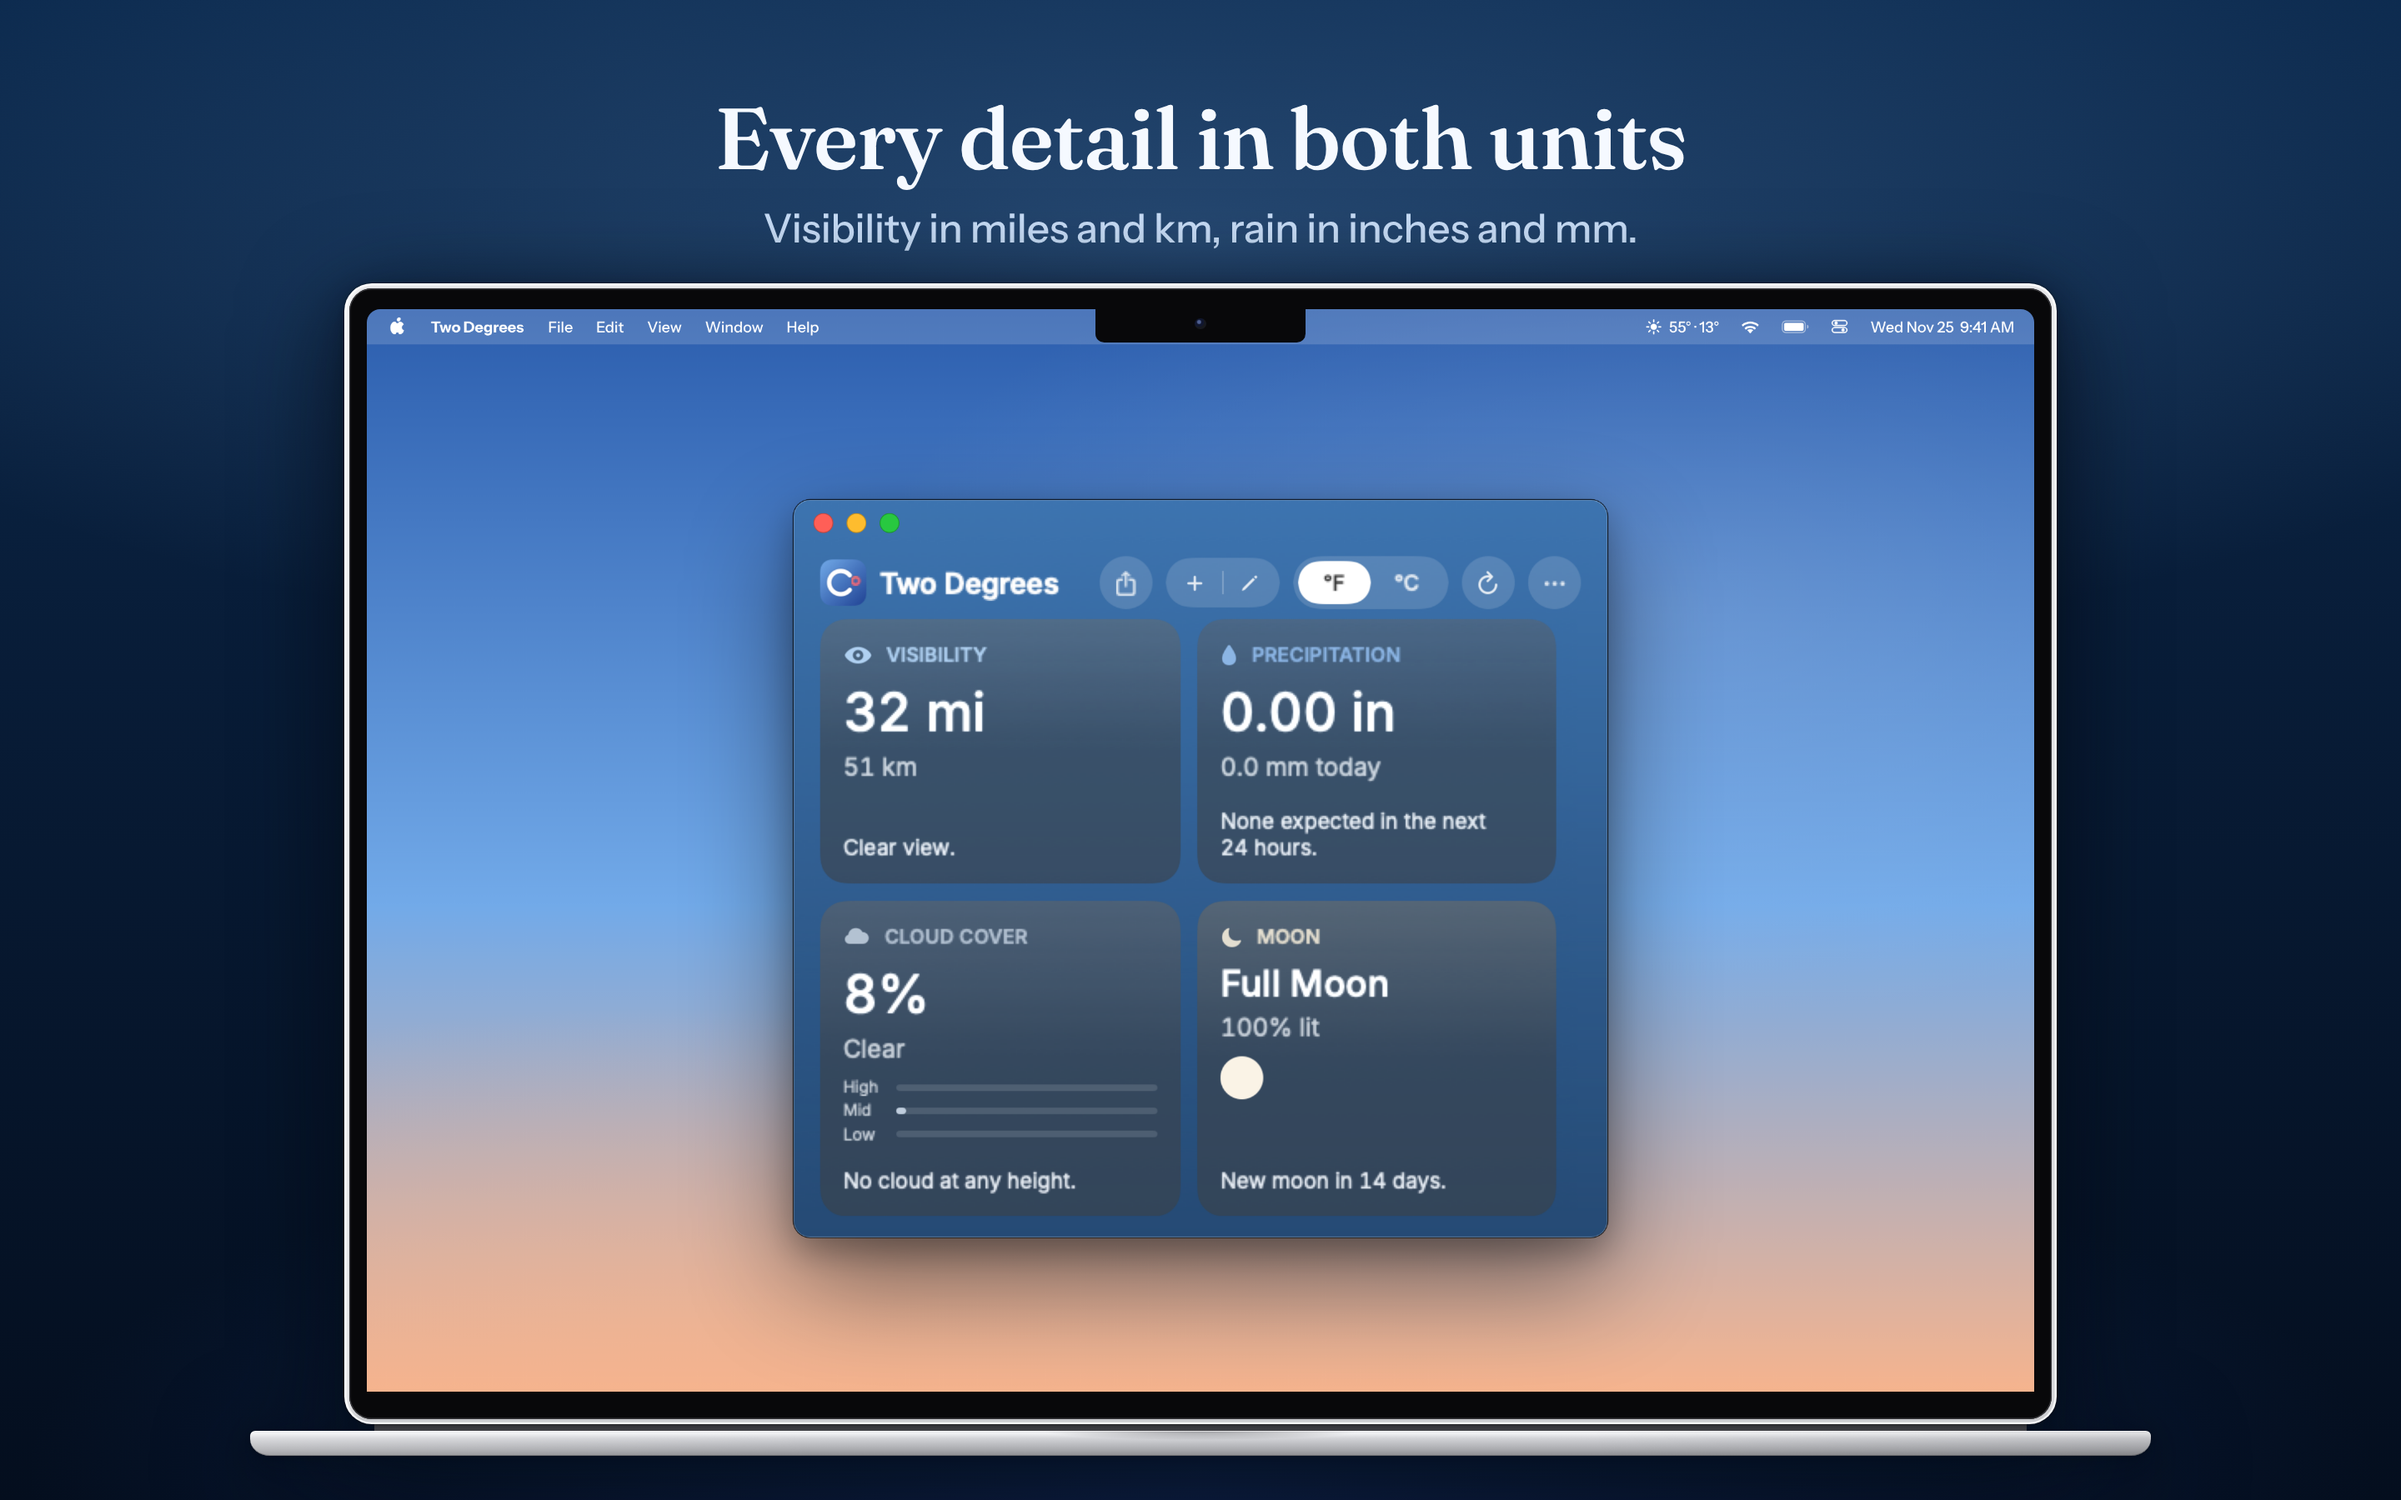
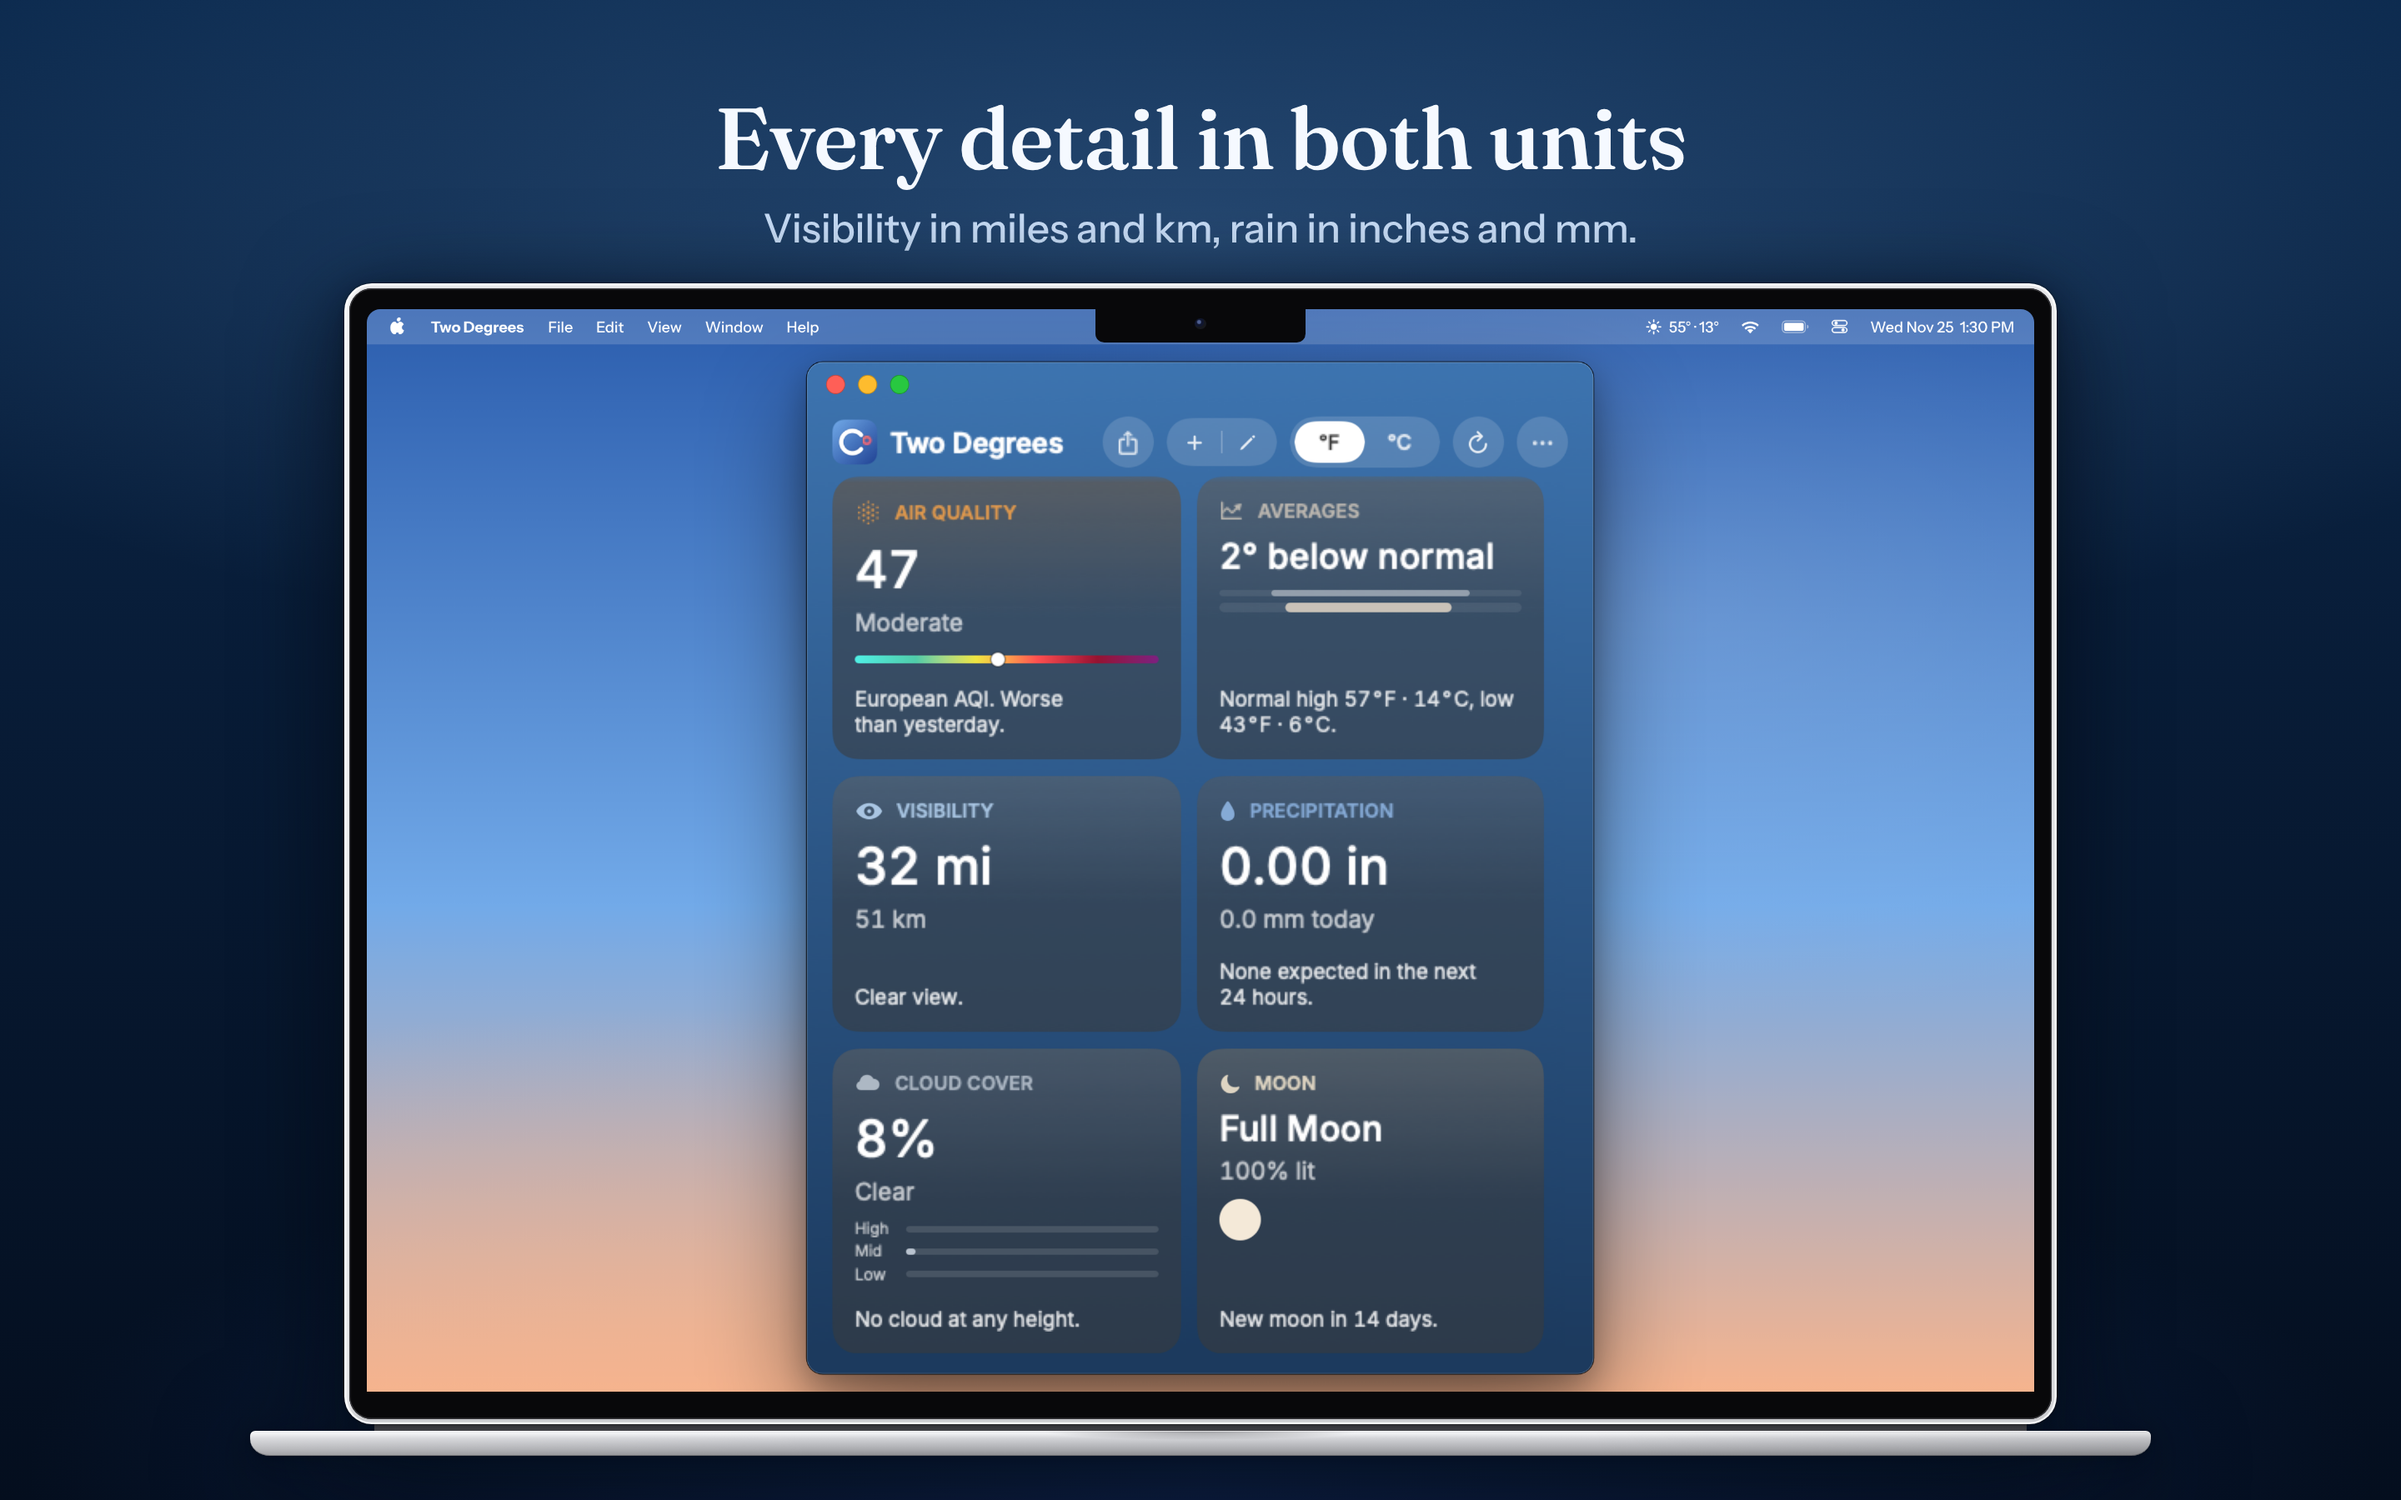
Mac App Store pictures: the city's clock, a second city in the menu bar, fuller tiles and widgets
- The menu bar clock is the hero city's local time from store-snapshot.json ('Wed Nov 25  1:30 PM',
  as its window's 'Japan · 1:30 PM'), passed to the template's desktop({ clock }) exception.
- mac-5's menu bar panel is the self-test's store-5-panel.png (Mumbai chosen), with the menu bar
  item's reading and the Dock tile (store-5-dock.png) following the chosen city, as the app does;
  it no longer repeats mac-1. Falls back to the hero when those captures are missing.
- mac-3's window shows all three rows of tiles (Air quality and Averages added; Averages gives the
  normal high and low in both units), at 1.45x, the largest that fits below the menu bar.
- mac-4's widgets are enlarged 1.45x in the same two columns, filling the screen.

iPhone and iPad pictures unchanged; design/app-store/store-frame.mjs unchanged.

Claude-Session: https://claude.ai/code/session_014XBPgVSosxkwyDptpY7qX5

Changed region(s): [[0.3125, 0.2489, 0.6875, 0.9333]]

diff --git a/scripts/make-store-screenshots.py b/scripts/make-store-screenshots.py
@@ -1604,19 +1604,21 @@ def mac_days(load):
 
 
 def mac_tiles(load):
-    """mac-3's window: the toolbar, then Visibility / Precipitation (edges 518..837) and Cloud cover / Moon
-    (858..1230, its rounded foot ending at 1232), 21 rows apart as in the app, and the window's own background
-    under them for 32 rows (16 pt, the app's side margin), so the last cards don't sit on the window's edge. Air quality and Averages
-    (its '7° above normal' carries no unit) are left out; the secondary units are raised to near-white."""
+    """mac-3's window: the toolbar, then all three rows of tiles as the app lays them out: Air quality / Averages
+    (edges 145..497; Averages gives the normal high and low in °F and °C), Visibility / Precipitation (518..837)
+    and Cloud cover / Moon (858..1230, its rounded foot ending at 1232), 21 rows apart as in the app, and the
+    window's own background under them for 32 rows (16 pt, the app's side margin), so the last cards don't sit on
+    the window's edge. The secondary units are raised to near-white."""
     a = arr(load("store-3-tiles.png"))
-    whiten(a, (54, 678, 162, 716), 0.94, 0.3)          # 29 km
+    whiten(a, (54, 678, 162, 716), 0.94, 0.3)          # 51 km
     whiten(a, (508, 678, 724, 721), 0.94, 0.3)         # 0.0 mm today
+    H = 144 + (497 - 145 + 1) + 21 + (837 - 518 + 1) + 21 + (1232 - 858 + 1) + 32
+    a = arr(pad_bottom(from_arr(a), max(0, H - a.shape[0])))
     B = sky_of(a, 12, a.shape[0])
-    H = 144 + (837 - 518 + 1) + 21 + (1232 - 858 + 1) + 32
     out = a[:H].copy()
     Bd = B[:H]
     fill(out, Bd, 136, H)
-    stack(out, Bd, 144, [(a, B, 518, 837), (a, B, 858, 1230)], 21, H)
+    stack(out, Bd, 144, [(a, B, 145, 497), (a, B, 518, 837), (a, B, 858, 1230)], 21, H)
     return from_arr(out)
 
 
@@ -1686,6 +1688,7 @@ MENU_H = 48
 # The Mac menu bar's reading and date come from the captures' store-snapshot.json (the hero city, as the app's
 # menu-bar extra shows it), so they match every screen. Set by main(); the defaults are only placeholders.
 MENU_READING = "93° · 34°"
+MENU_READING2 = MENU_READING   # mac-5: the second city's, chosen in the menu bar panel (the item follows it)
 MENU_CLOCK = "Tue Nov 24  9:41 AM"
 
 
@@ -1696,21 +1699,30 @@ def app_round(v):
 
 
 def read_menu_bar(raw):
-    """Sets MENU_READING and MENU_CLOCK from raw/store-snapshot.json: the first city's reading in °F and °C, and
-    the day the forecast was fetched (Swift dates count seconds from 2001-01-01 UTC)."""
-    global MENU_READING, MENU_CLOCK
+    """Sets MENU_READING, MENU_READING2 and MENU_CLOCK from raw/store-snapshot.json: the first and second cities'
+    readings in °F and °C, and the clock: the first city's local time as its window shows it ('Japan · 1:30 PM';
+    the app keeps each city's times as wall-clock time stored as GMT, in seconds from 2001-01-01), formatted like
+    the template's MAC_CLOCK, so the menu bar never contradicts the app."""
+    global MENU_READING, MENU_READING2, MENU_CLOCK
     import datetime
     import json
     path = os.path.join(raw, "store-snapshot.json")
     if not os.path.exists(path):
         return
     snap = json.load(open(path))
-    c = snap["cities"][0]
-    f = snap["forecasts"]["%.2f,%.2f" % (c["latitude"], c["longitude"])]
-    t = f["now"]["temperature"]
-    MENU_READING = f"{app_round(t * 9 / 5 + 32)}° · {app_round(t)}°"
-    day = datetime.datetime(2001, 1, 1) + datetime.timedelta(seconds=f["fetchedAt"])
-    MENU_CLOCK = f"{day:%a %b} {day.day}  9:41 AM"
+
+    def city(c):
+        return snap["forecasts"]["%.2f,%.2f" % (c["latitude"], c["longitude"])]
+
+    def reading(c):
+        t = city(c)["now"]["temperature"]
+        return f"{app_round(t * 9 / 5 + 32)}° · {app_round(t)}°"
+
+    cities = snap["cities"]
+    MENU_READING = reading(cities[0])
+    MENU_READING2 = reading(cities[1]) if len(cities) > 1 else MENU_READING
+    t = datetime.datetime(2001, 1, 1) + datetime.timedelta(seconds=city(cities[0])["now"]["time"])
+    MENU_CLOCK = f"{t:%a %b} {t.day}  {(t.hour - 1) % 12 + 1}:{t:%M %p}"
 
 
 def menu_bar(p, extra_open=False, s=1.0):
@@ -2004,12 +2016,19 @@ def mac_pieces(load, raw):
     """For the family template (scripts/store-frames.mjs lays them out on the master's desktop() and MacBook): the
     app's real windows and widgets at 2x, as they are, with no frame, shadow or desktop of ours. mac-1..3-window are
     the hero, the 10-day card and the tiles (the overlay scroller out); mac-4-* the widgets (Tokyo large, medium,
-    small; Mumbai small and large); mac-5-panel is the menu bar panel (the hero again) and mac-5-dock the app's live
-    Dock tile. mac.json carries the menu bar's reading and clock (from the captures' store-snapshot.json)."""
+    small; Mumbai small and large); mac-5-panel is the menu bar panel with the second city chosen (store-5-panel,
+    cropped and treated as mac-1's window) and mac-5-dock that city's live Dock tile (store-5-dock), as the menu bar
+    item and the Dock follow the chosen city; without those captures, the hero again. mac.json carries the menu
+    bar's readings and clock (from the captures' store-snapshot.json)."""
     w = mac_widgets(load, raw)
     out = {f"mac-{i + 1}-window": scroller_out(f(load)) for i, f in enumerate((mac_hero, mac_days, mac_tiles))}
+    try:
+        panel = scroller_out(mac_hero(lambda n: load("store-5-panel.png" if n == "store-1-top.png" else n)))
+        dock = load("store-5-dock.png")
+    except (FileNotFoundError, OSError, subprocess.CalledProcessError):
+        panel, dock = out["mac-1-window"], load("store-dock.png")
     out.update({"mac-4-large": w["L"], "mac-4-medium": w["M"], "mac-4-small": w["S"], "mac-4-small2": w["mS"],
-                "mac-4-large2": w["mL"], "mac-5-panel": out["mac-1-window"], "mac-5-dock": load("store-dock.png")})
+                "mac-4-large2": w["mL"], "mac-5-panel": panel, "mac-5-dock": dock})
     return out
 
 
@@ -2163,7 +2182,7 @@ def main():
                 im.save(path)
                 print(path, im.size)
             with open(os.path.join(a.screens, "mac.json"), "w") as f:
-                json.dump({"reading": MENU_READING, "clock": MENU_CLOCK}, f)
+                json.dump({"reading": MENU_READING, "reading5": MENU_READING2, "clock": MENU_CLOCK}, f)
         sets = [("iphone", lambda: iphone_set(a.raw, True)), ("ipad", lambda: ipad_set(a.raw, True))]
         for name, make in sets:
             if name in only:
